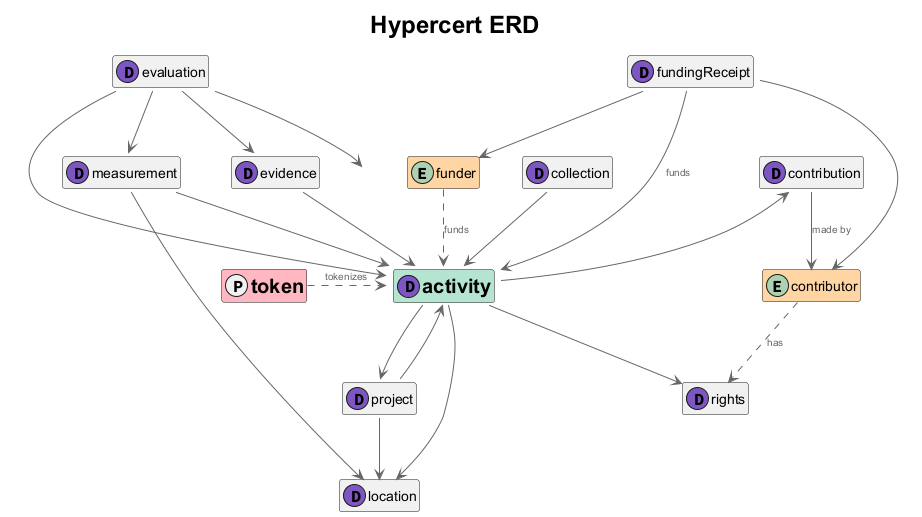
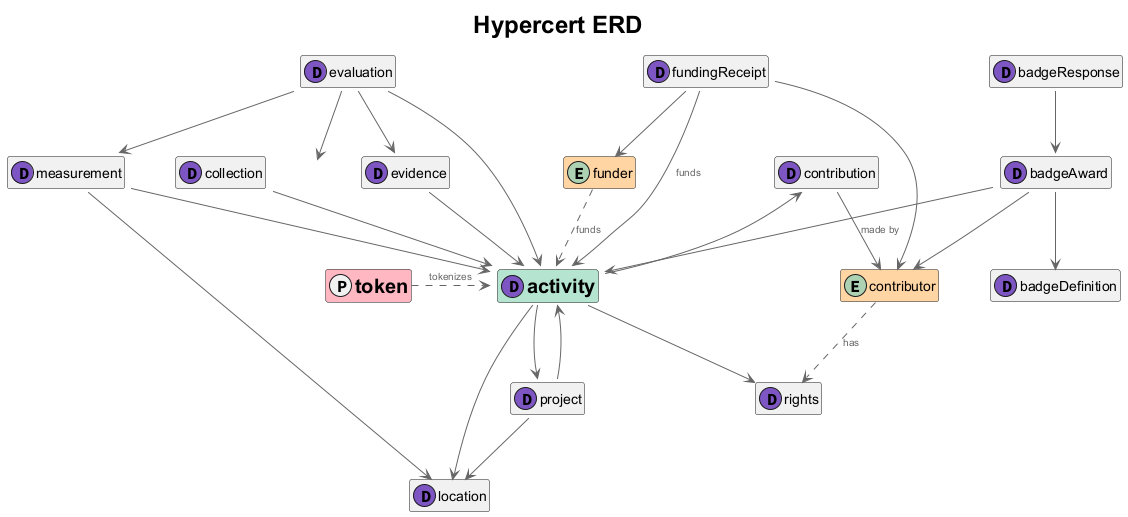
adding badges

diff --git a/README.md b/README.md
@@ -110,6 +110,53 @@ Certified lexicons are common/shared lexicons that can be used across multiple p
 | `description`  | `string` | ❌       | Optional description for this location                                                                                    |          |
 | `createdAt`    | `string` | ✅       | Client-declared timestamp when this record was originally created                                                         |          |
 
+### Badges Lexicon
+
+**Lexicon IDs:** `app.certified.badge.definition`, `app.certified.badge.award`, `app.certified.badge.response`
+
+**Description:** Defines badge metadata, award records, and recipient responses for certified badges that can be used across protocols.
+
+#### Badge Definition
+
+**Lexicon ID:** `app.certified.badge.definition`
+
+**Key:** `tid`
+
+| Property         | Type     | Required | Description                                                            |
+| ---------------- | -------- | -------- | ---------------------------------------------------------------------- |
+| `badgeType`      | `string` | ✅       | Category of the badge (e.g., endorsement, participation, affiliation). |
+| `title`          | `string` | ✅       | Human-readable title of the badge.                                     |
+| `icon`           | `blob`   | ✅       | Icon representing the badge (accepted `image/*` types, maxSize 1MB).   |
+| `description`    | `string` | ❌       | Optional short statement describing the badge.                         |
+| `allowedIssuers` | `array`  | ❌       | Optional allowlist of DIDs allowed to issue this badge.                |
+| `createdAt`      | `string` | ✅       | Client-declared timestamp when this record was originally created.     |
+
+#### Badge Award
+
+**Lexicon ID:** `app.certified.badge.award`
+
+**Key:** `tid`
+
+| Property    | Type     | Required | Description                                                                          |
+| ----------- | -------- | -------- | ------------------------------------------------------------------------------------ |
+| `badge`     | `ref`    | ✅       | Reference to the badge definition for this award (`app.certified.badge.definition`). |
+| `subject`   | `union`  | ✅       | Entity the badge award is for (either a DID or a specific AT Protocol record).       |
+| `note`      | `string` | ❌       | Optional explanation for the award.                                                  |
+| `createdAt` | `string` | ✅       | Client-declared timestamp when this record was originally created.                   |
+
+#### Badge Response
+
+**Lexicon ID:** `app.certified.badge.response`
+
+**Key:** `tid`
+
+| Property     | Type     | Required | Description                                                            |
+| ------------ | -------- | -------- | ---------------------------------------------------------------------- |
+| `badgeAward` | `ref`    | ✅       | Reference to the badge award (`app.certified.badge.award`).            |
+| `response`   | `string` | ✅       | Enum: `accepted` or `rejected`.                                        |
+| `weight`     | `string` | ❌       | Optional relative weight assigned by the recipient (stored as string). |
+| `createdAt`  | `string` | ✅       | Client-declared timestamp when this record was originally created.     |
+
 ---
 
 ## Hypercerts Lexicons
